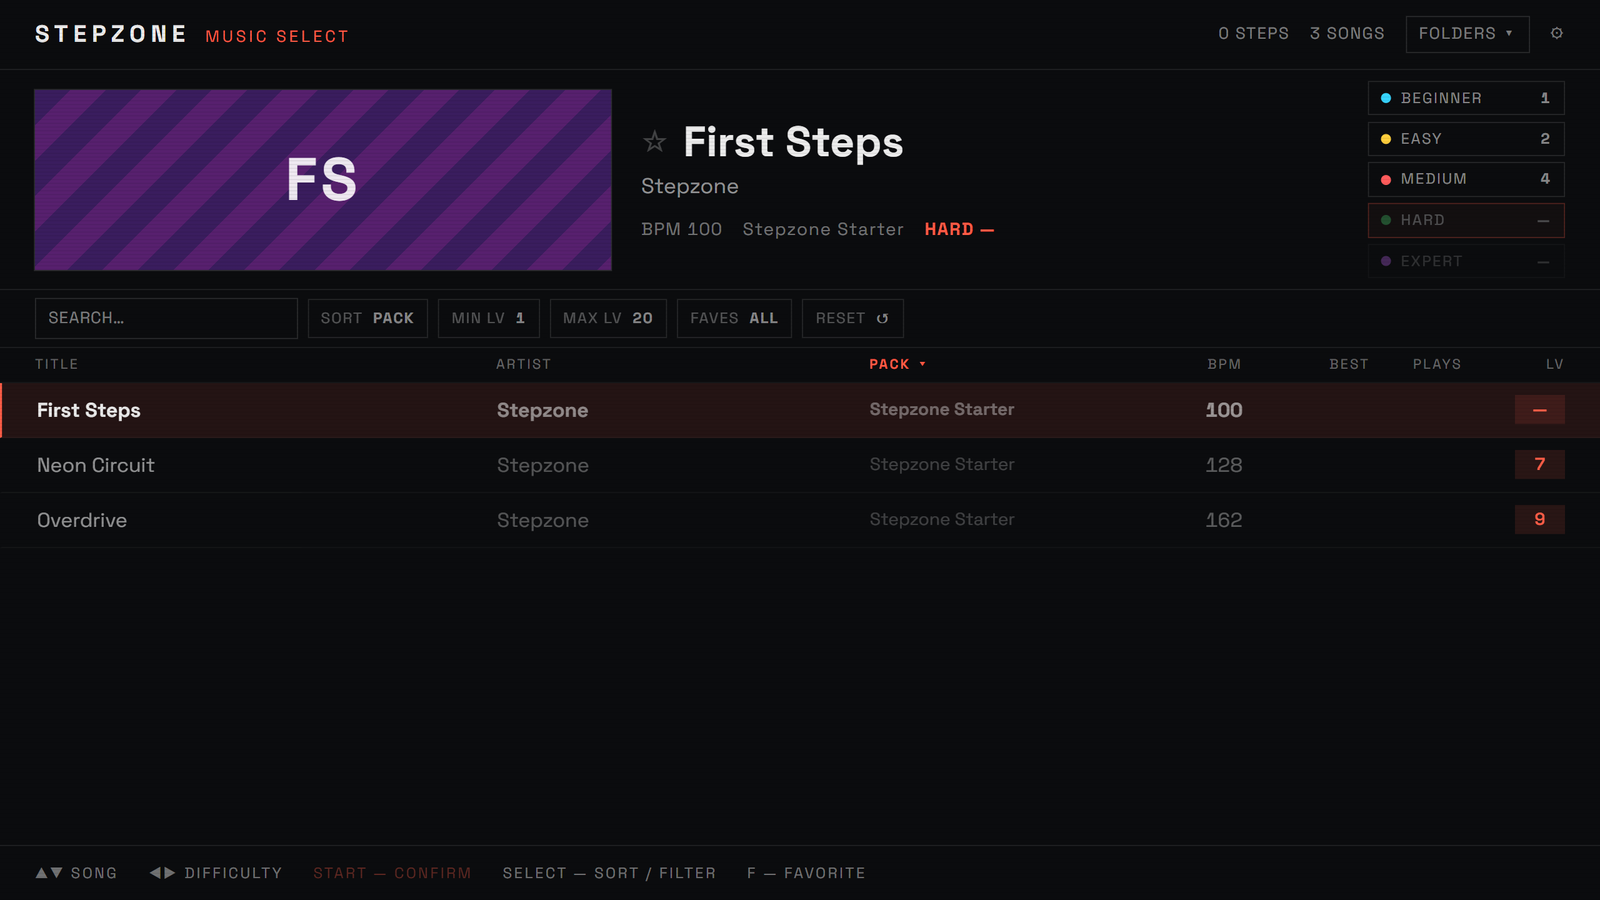
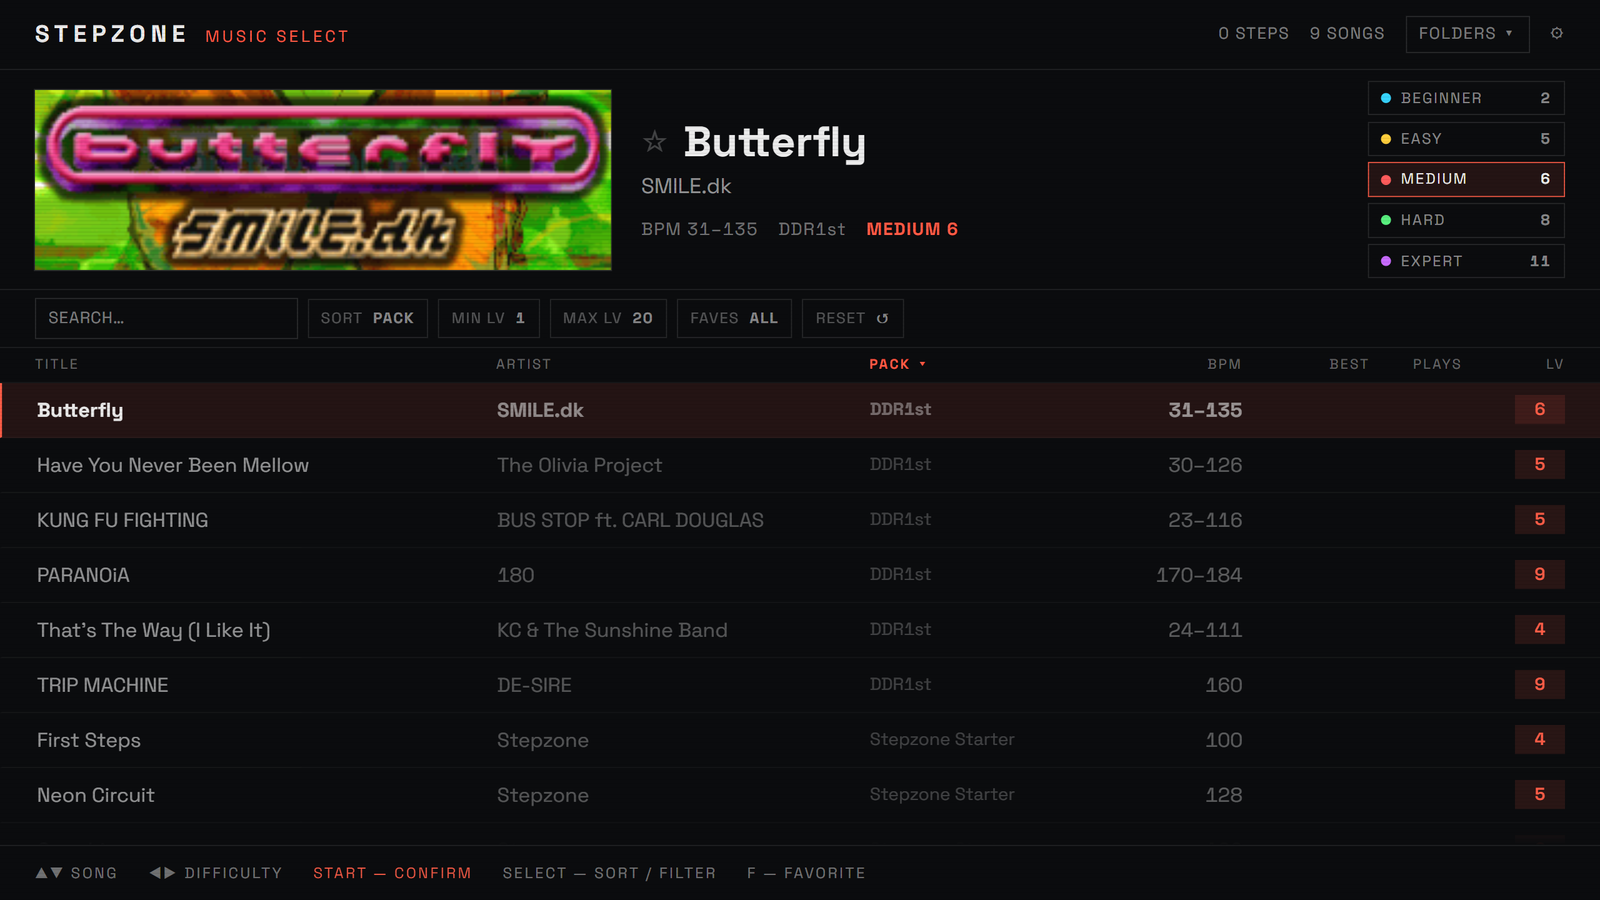
docs(readme): real-song screenshots (Butterfly), trim, live demo link
- Replace the synthetic/harness shots with real gameplay from the ITGmania
  library: the DDR 1st Mix song-select and the note field (both skins) playing
  SMILE.dk "Butterfly" over its real background. Field shots are JPEG to keep
  the repo lean.
- Remove the Status and Architecture sections; keep a concise Running section.
- Add a live-demo link (https://stepzone-omega.vercel.app/) at the top.

Claude-Session: https://claude.ai/code/session_01PrFkxK6YX34MiR2z4XbBmw

diff --git a/README.md b/README.md
@@ -5,6 +5,8 @@ framework-free TypeScript; the app shell is React. It reads real `.sm`/`.ssc`
 simfiles and plays them in the browser with sample-accurate timing and a
 WebGPU note field.
 
+**[▸ Play it live](https://stepzone-omega.vercel.app/)** — Chrome or Edge (WebGPU required).
+
 ![Song select](docs/img/song-select.png)
 
 Built from the reimplementation spec in
@@ -12,17 +14,7 @@ Built from the reimplementation spec in
 documents the StepMania/ITGmania formats and game logic in detail. Each module
 here cites the spec doc it implements.
 
-## Status
-
-**Milestone 5 — Player features (mostly done).** Real song folders and packs
-play end to end in the browser: a Web Audio clock, keyboard and gamepad input
-judged on the event timestamp, a WebGPU note field (arcade + ITG skins), and
-combo/score/life/grade with a results screen — plus song select with
-search/favorites, persisted options (scroll speed, music rate, sync offset, key
-rebinding, mirror/turn mods), and an auto-calibration screen. The pure layers
-underneath (parsing, timing, and the judgment engine) are covered by unit
-tests, including the spec's worked example and its input trace reproduced
-number-for-number.
+## Running
 
 ```
 npm install     # Node ≥ 22.6 required (built on Node 24 LTS)
@@ -40,39 +32,6 @@ so the library reloads on the next visit after a single keypress re-grant
 Play with <kbd>←</kbd> <kbd>↓</kbd> <kbd>↑</kbd> <kbd>→</kbd> (or D F J K), or a
 gamepad / dance pad. The "Inspect" tab shows the parsed song/timing/notes.
 
-## Architecture
-
-The **engine** (`src/notes`, `src/timing`, `src/parse`, `src/song`,
-`src/gameplay`, `src/audio`) imports no React and no DOM APIs, so it is fully
-unit-tested in Node and could run headless. The **app** (`src/ui`,
-`src/main.tsx`) is the React shell. The `src/audio` clock is the one
-browser-coupled engine piece, and even there the timing math is a pure, tested
-`SyncMap`.
-
-```
-src/
-  notes/      noteTypes, noteData, noteGrid, transforms  (spec doc 3)
-  timing/     segments, timingData (beat<->second)  (spec doc 2)
-  parse/      msd tokenizer, ssc, sm, loader         (spec doc 1)
-  song/       song, steps, difficulty, stepsType     (spec doc 5)
-  audio/      syncMap (pure), clock (Web Audio)       (spec doc 6)
-  input/      key/gamepad -> column mapping           (spec doc 7)
-  render/     WebGPU note field + skins, scroll math   (spec doc 8)
-  gameplay/   judgment, scoring, life                 (spec doc 4)
-  game/       the play-loop orchestrator              (spec doc 9)
-  io/         song folders, packs, remembered folder handle
-  app/        persisted settings / favorites / scores
-  ui/         React components
-tests/        vitest suites (mirror the engine)
-docs/
-  LATENCY.md      how we get low latency right on the web
-  RENDER-PERF.md  the WebGPU note field + render benchmark
-  ROADMAP.md      milestones
-```
-
-There is no barrel module: the app and tests deep-import from the subfolders
-directly (e.g. `src/timing/timingData`).
-
 ## Rendering
 
 The note field renders on **WebGPU**: one instanced-quad pipeline over a
@@ -83,7 +42,7 @@ Player Options. WebGPU is required to play; there is no canvas fallback.
 
 |              Arcade — DDR A3              |          ITG — Simply Love          |
 | :---------------------------------------: | :---------------------------------: |
-| ![Arcade skin](docs/img/field-arcade.png) | ![ITG skin](docs/img/field-itg.png) |
+| ![Arcade skin](docs/img/field-arcade.jpg) | ![ITG skin](docs/img/field-itg.jpg) |
 
 An in-app render benchmark (OPTIONS → DISPLAY → **Run render benchmark**, or
 open `/?bench=auto`) measures the real GPU time of each presented frame via
